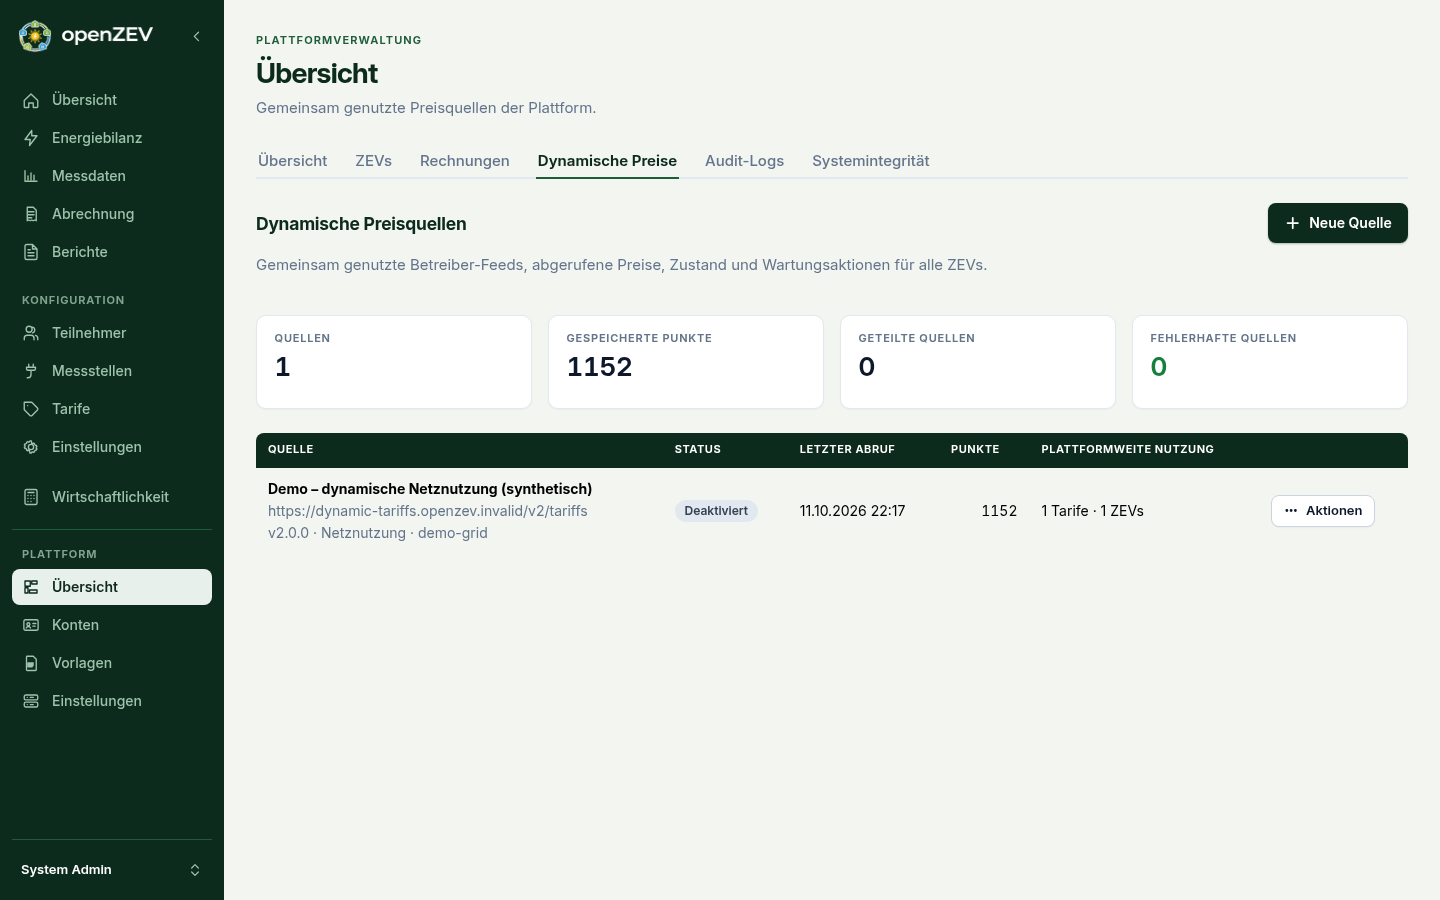
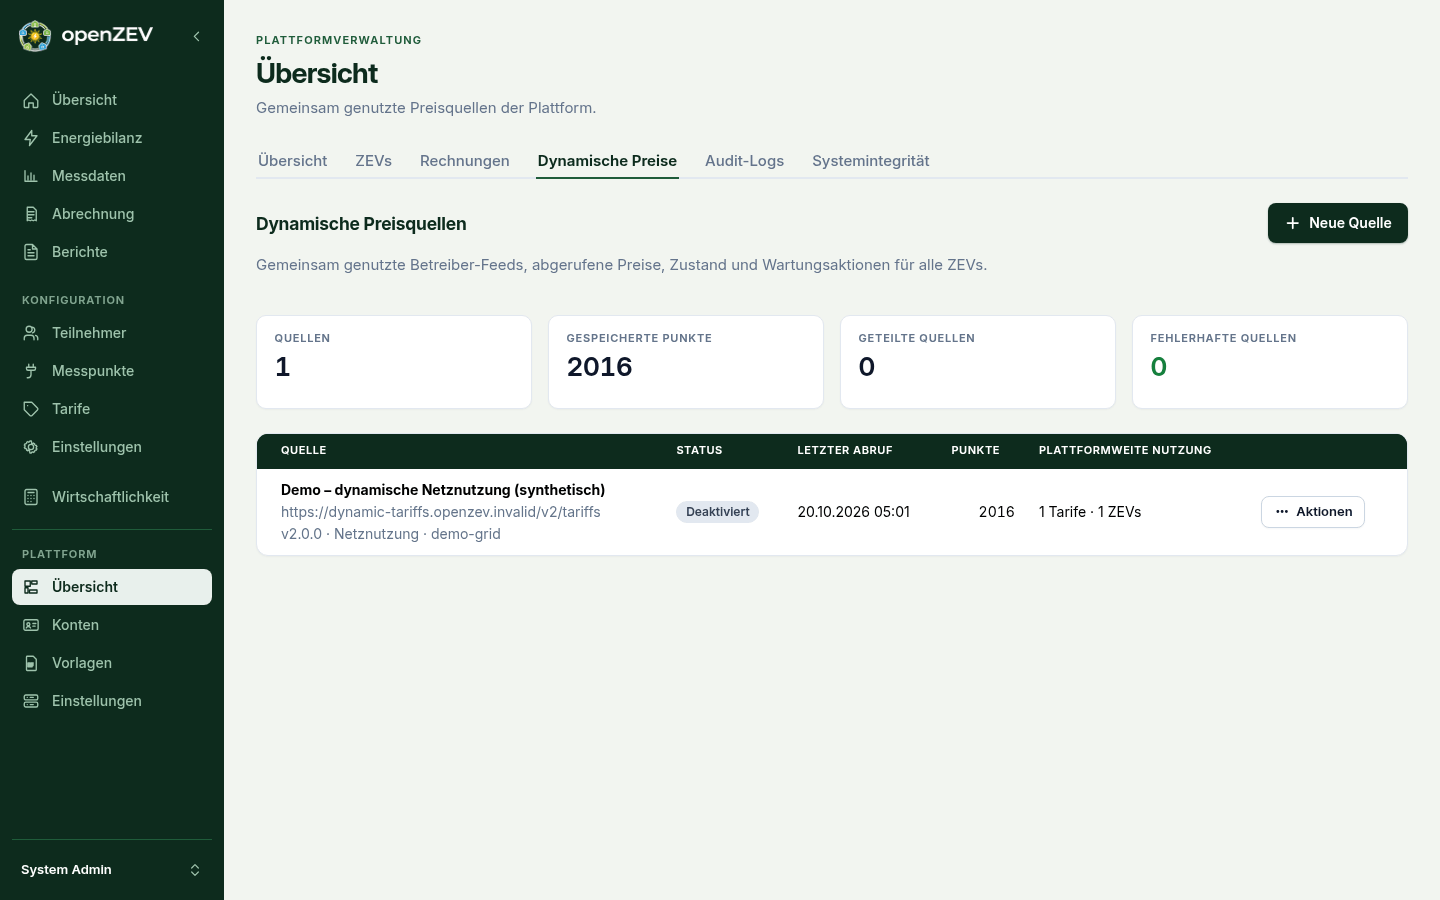
fix(ui): give dynamic source tables the shared white surface

diff --git a/frontend/src/pages/AdminDynamicSourcesPanel.tsx b/frontend/src/pages/AdminDynamicSourcesPanel.tsx
@@ -342,12 +342,14 @@ export function AdminDynamicSourcesPanel() {
             }]}
           />
         ) : (
-          <DataTable
-            data={visibleSources}
-            columns={columns}
-            getRowId={(source) => source.id}
-            emptyMessage={t('pages.dynamicSources.sourceNotFound')}
-          />
+          <div className="table-card">
+            <DataTable
+              data={visibleSources}
+              columns={columns}
+              getRowId={(source) => source.id}
+              emptyMessage={t('pages.dynamicSources.sourceNotFound')}
+            />
+          </div>
         )}
       </PageState>
 
@@ -382,12 +384,14 @@ export function AdminDynamicSourcesPanel() {
               {t('pages.dynamicSources.activity.refreshError')}
             </Notice>
           )}
-          <DataTable
-            data={activityQuery.data?.results ?? []}
-            columns={activityColumns}
-            getRowId={(event) => event.id}
-            emptyMessage={t('pages.dynamicSources.activity.empty')}
-          />
+          <div className="table-card">
+            <DataTable
+              data={activityQuery.data?.results ?? []}
+              columns={activityColumns}
+              getRowId={(event) => event.id}
+              emptyMessage={t('pages.dynamicSources.activity.empty')}
+            />
+          </div>
         </PageState>
       </FormModal>
 
